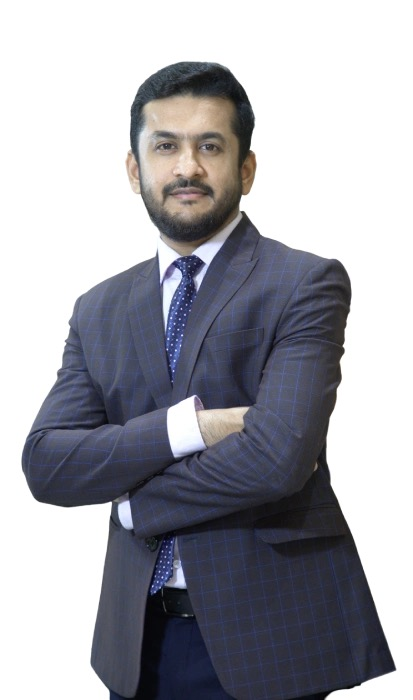
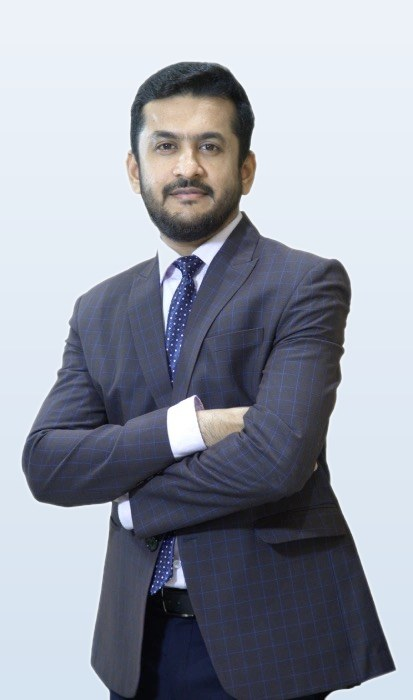
dr

diff --git a/components/Doctors.tsx b/components/Doctors.tsx
@@ -9,7 +9,6 @@ const doctors = [
     exp: "30+ Years of Experience",
     expertise: ["Hair", "Acne", "Psoriasis", "PRP", "Anti-Ageing"],
     img: "/dr-rajeev-dhir.jpg",
-    cutout: false,
   },
   {
     name: "Dr. Shweta Tripathi",
@@ -18,7 +17,6 @@ const doctors = [
     exp: "6+ Years of Experience",
     expertise: ["Acne", "Pigmentation", "Melasma", "Botox", "Laser"],
     img: "/dr-shweta-tripathi.jpg",
-    cutout: false,
   },
   {
     name: "Dr. Lalit Rajpal",
@@ -27,8 +25,14 @@ const doctors = [
     exp: "10+ Years of Experience",
     expertise: ["Hair Transplant", "Rhinoplasty", "Fillers", "Body Contouring"],
     img: "/dr-lalit-rajpal.jpg",
-    // photo has a plain white studio background — tint it to match the others
-    cutout: true,
+  },
+  {
+    name: "Dr. Rashi Lade",
+    qualifications: "MDS (Oral & Maxillofacial Surgery)",
+    role: "Oral & Maxillofacial Surgeon · Clinical Cosmetologist",
+    exp: "5+ Years of Experience",
+    expertise: ["Injectables", "PRP", "GFC", "Microneedling", "Anti-Ageing"],
+    img: "/dr-rashi-lade.jpg",
   },
 ];
 
@@ -52,27 +56,19 @@ export default function Doctors() {
           <div className="mt-5 h-1 w-16 rounded-full bg-brand-400" />
         </div>
 
-        <div className="mx-auto mt-12 grid max-w-5xl gap-8 sm:grid-cols-2 lg:grid-cols-3">
+        <div className="mt-12 grid gap-6 sm:grid-cols-2 lg:grid-cols-4">
           {doctors.map((d) => (
             <article
               key={d.name}
               className="flex flex-col overflow-hidden rounded-3xl bg-white shadow-card ring-1 ring-brand-100/70 transition-transform hover:-translate-y-1"
             >
               {/* photo */}
-              <div
-                className={`aspect-[4/5] w-full overflow-hidden ${
-                  d.cutout
-                    ? "bg-gradient-to-b from-[#eef3f9] to-[#d9e5f1]"
-                    : "bg-brand-50"
-                }`}
-              >
+              <div className="aspect-[4/5] w-full overflow-hidden bg-brand-50">
                 {/* eslint-disable-next-line @next/next/no-img-element */}
                 <img
                   src={d.img}
                   alt={d.name}
-                  className={`h-full w-full object-cover object-top ${
-                    d.cutout ? "mix-blend-multiply" : ""
-                  }`}
+                  className="h-full w-full object-cover object-top"
                 />
               </div>
 
@@ -107,7 +103,7 @@ export default function Doctors() {
                 </div>
 
                 <a
-                  href={waLink(`Hi Dermato Planet 👋, I'd like to consult ${d.name}.`)}
+                  href={waLink(`Hi Dermato Planet, I'd like to consult ${d.name}.`)}
                   target="_blank"
                   rel="noopener noreferrer"
                   className="mt-auto inline-flex items-center justify-center gap-2 rounded-full bg-brand-600 px-5 py-2.5 text-sm font-semibold text-white transition-colors hover:bg-brand-700"

diff --git a/components/Navbar.tsx b/components/Navbar.tsx
@@ -17,7 +17,6 @@ import {
 } from "lucide-react";
 import Logo from "./Logo";
 import { treatmentCategories } from "@/content/treatments";
-import { waLink, WA_MESSAGES } from "@/lib/whatsapp";
 
 const links = [
   { label: "Home", href: "/" },
@@ -172,14 +171,12 @@ export default function Navbar() {
         </ul>
 
         <div className="hidden lg:block">
-          <a
-            href={waLink(WA_MESSAGES.book)}
-            target="_blank"
-            rel="noopener noreferrer"
+          <Link
+            href="/#contact"
             className="rounded-full bg-brand-600 px-6 py-2.5 text-sm font-semibold text-white shadow-soft transition-all hover:bg-brand-700"
           >
             Book Appointment
-          </a>
+          </Link>
         </div>
 
         <button
@@ -257,15 +254,13 @@ export default function Navbar() {
               )
             )}
             <li>
-              <a
-                href={waLink(WA_MESSAGES.book)}
-                target="_blank"
-                rel="noopener noreferrer"
+              <Link
+                href="/#contact"
                 onClick={() => setOpen(false)}
                 className="mt-2 inline-block rounded-full bg-brand-600 px-6 py-2.5 text-sm font-semibold text-white"
               >
                 Book Appointment
-              </a>
+              </Link>
             </li>
           </ul>
         </div>

diff --git a/lib/whatsapp.ts b/lib/whatsapp.ts
@@ -15,12 +15,12 @@ export function waLink(text?: string): string {
 
 // Reusable default messages
 export const WA_MESSAGES = {
-  book: "Hi Dermato Planet 👋, I'd like to book an appointment.",
+  book: "Hi Dermato Planet, I'd like to book an appointment.",
   treatmentPlan:
-    "Hi Dermato Planet 👋, I'd like to get a personalized treatment plan.",
-  general: "Hi Dermato Planet 👋, I have a question about your treatments.",
+    "Hi Dermato Planet, I'd like to get a personalized treatment plan.",
+  general: "Hi Dermato Planet, I have a question about your treatments.",
   concern: (q: string) =>
-    `Hi Dermato Planet 👋, I'm looking for help with: ${q}`,
+    `Hi Dermato Planet, I'm looking for help with: ${q}`,
   treatment: (name: string) =>
-    `Hi Dermato Planet 👋, I'd like to know more about ${name}.`,
+    `Hi Dermato Planet, I'd like to know more about ${name}.`,
 };

diff --git a/components/Contact.tsx b/components/Contact.tsx
@@ -40,7 +40,7 @@ export default function Contact() {
   const handleSubmit = (e: React.FormEvent) => {
     e.preventDefault();
     const lines = [
-      "Hi Dermato Planet 👋, I'd like to book an appointment.",
+      "Hi Dermato Planet, I'd like to book an appointment.",
       name && `Name: ${name}`,
       concern && `Concern: ${concern}`,
       message && `Message: ${message}`,